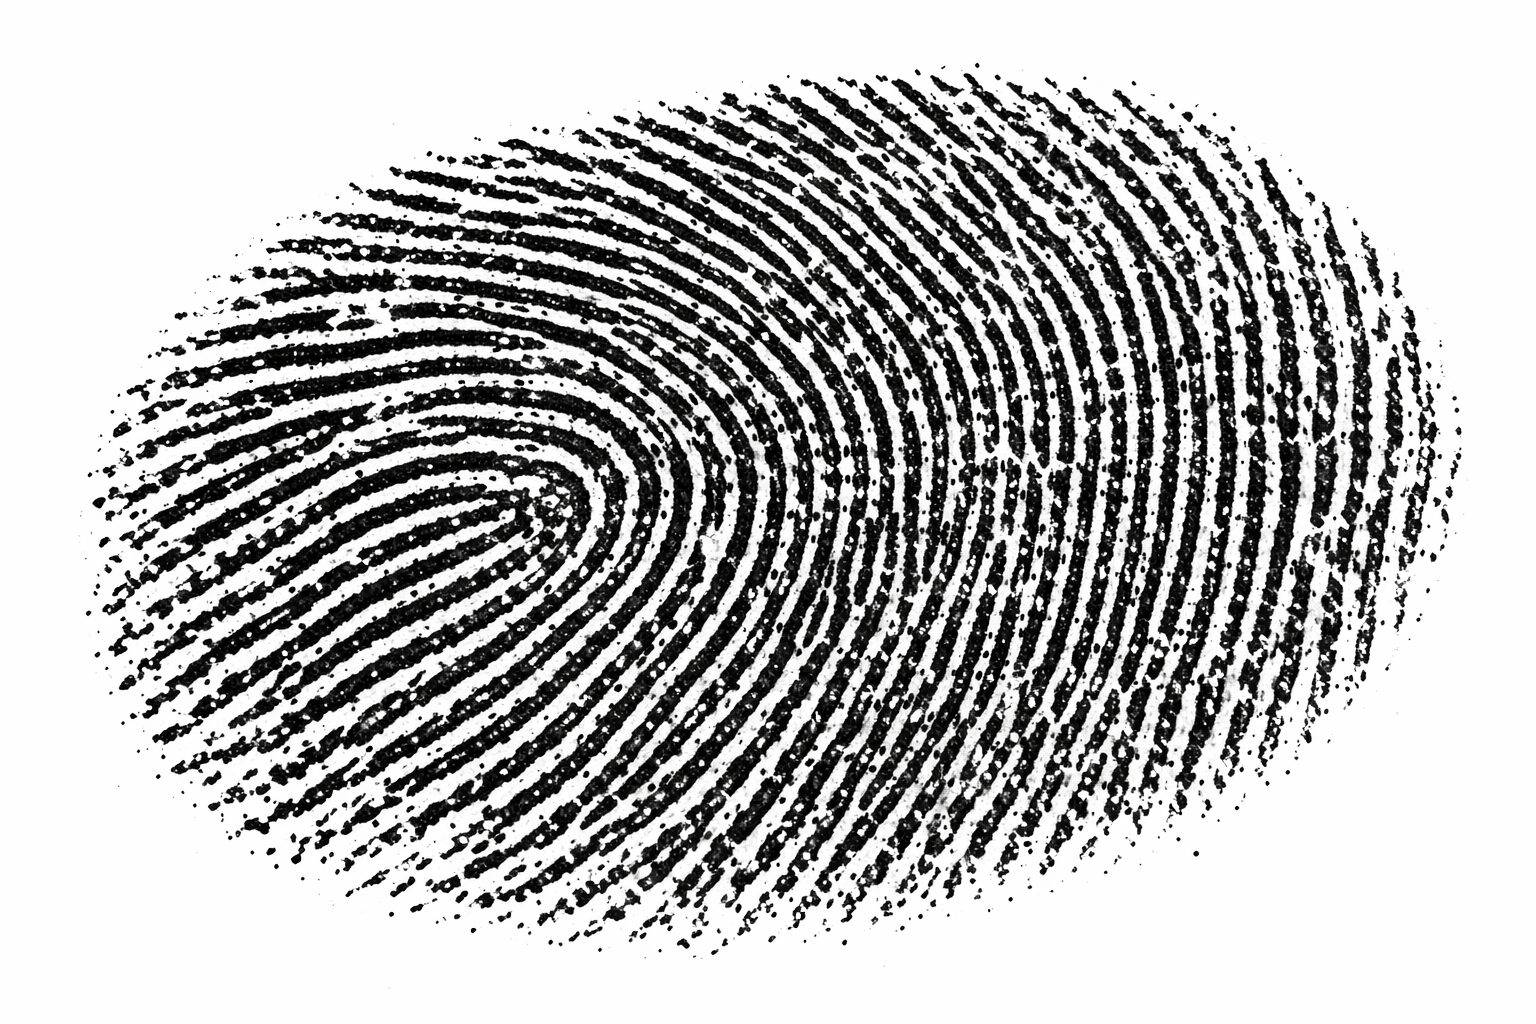
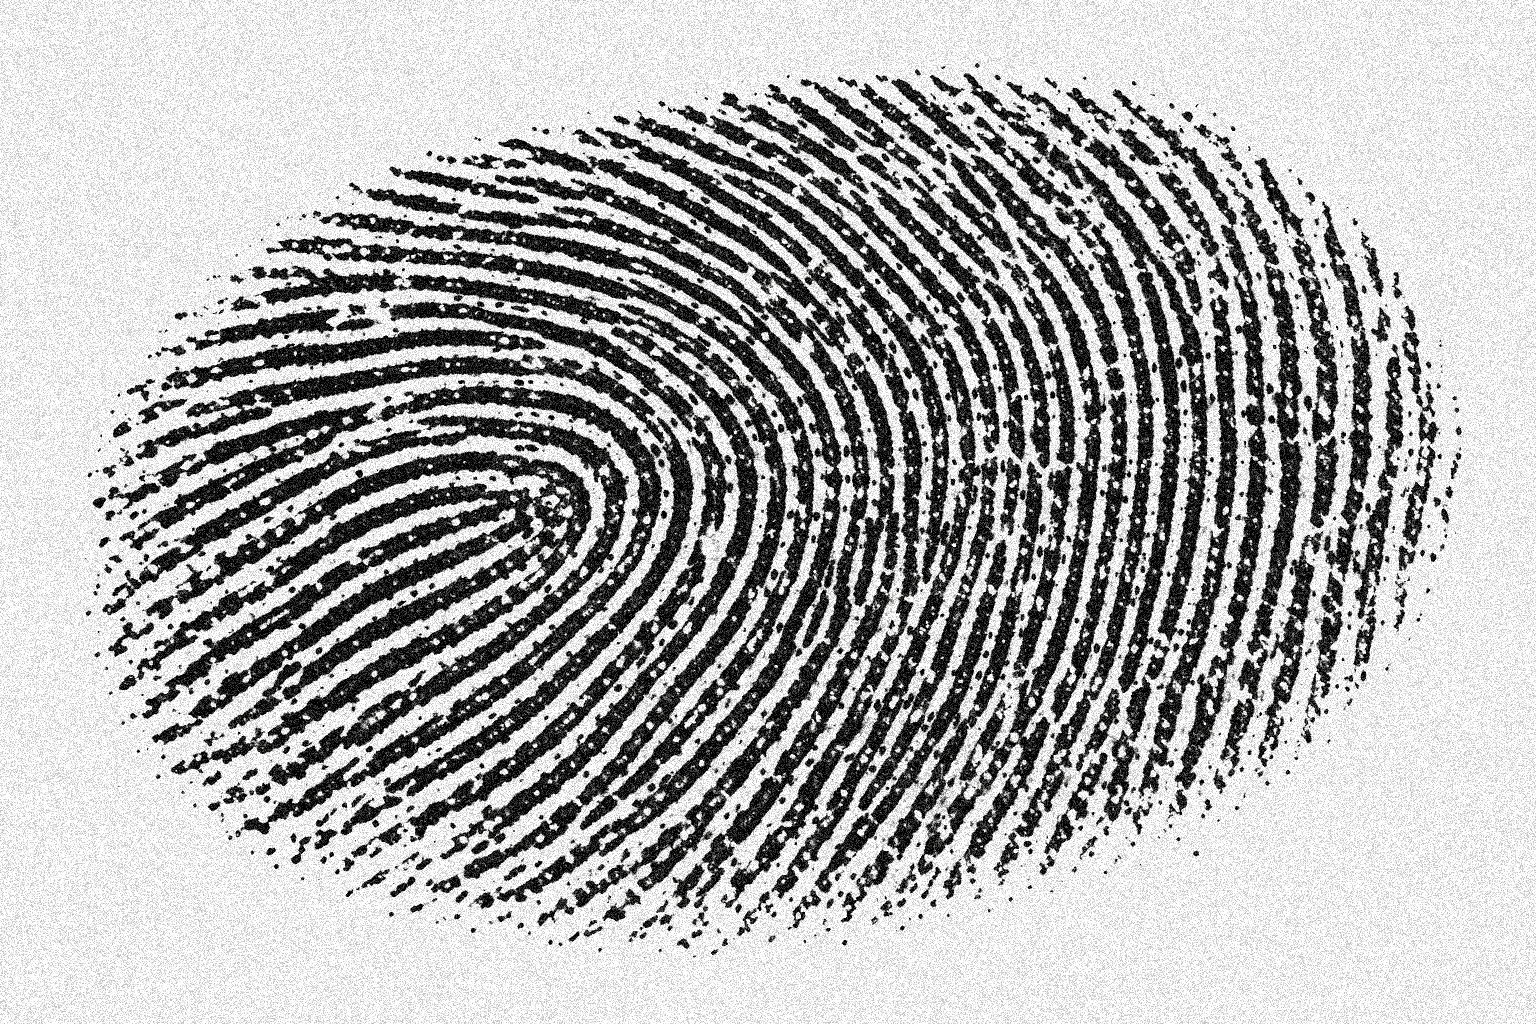
feat: task 2 completed

diff --git a/labs/lab2/task2.py b/labs/lab2/task2.py
@@ -1,0 +1,150 @@
+import os
+import cv2
+import numpy as np
+import matplotlib.pyplot as plt
+
+
+def loadGrayscaleImage(image_path: str) -> np.ndarray:
+    """Carga una imagen en escala de grises (uint8)"""
+    img = cv2.imread(image_path, cv2.IMREAD_GRAYSCALE)
+    if img is None:
+        raise ValueError(f"No se pudo leer la imagen: {image_path}")
+    return img
+
+
+def ensureBinaryImage(gray_img: np.ndarray) -> np.ndarray:
+    """Convierte una imagen en escala de grises a binaria limpia con valores {0, 255} usando Otsu"""
+    if gray_img.dtype != np.uint8:
+        gray_img = gray_img.astype(np.uint8)
+
+    _, binary = cv2.threshold(
+        gray_img, 0, 255, cv2.THRESH_BINARY + cv2.THRESH_OTSU
+    )
+
+    # Forzar binario estricto por seguridad
+    binary = np.where(binary > 0, 255, 0).astype(np.uint8)
+    return binary
+
+
+def normalizeForegroundToWhite(binary_img: np.ndarray) -> np.ndarray:
+    """Asegura que las crestas de la huella sean el foreground"""
+    white_ratio = float(np.mean(binary_img == 255))
+    if white_ratio > 0.5:
+        return cv2.bitwise_not(binary_img)
+    return binary_img
+
+
+def applyOpening(
+    binary_img: np.ndarray,
+    kernel_shape: int,
+    kernel_size: int,
+    iterations: int = 1
+) -> np.ndarray:
+    """Aplica apertura morfológica erosión -> dilatación"""
+    kernel = cv2.getStructuringElement(
+        kernel_shape, (kernel_size, kernel_size)
+    )
+    opened = cv2.morphologyEx(
+        binary_img, cv2.MORPH_OPEN, kernel, iterations=iterations
+    )
+    return opened
+
+
+def applyClosing(
+    binary_img: np.ndarray,
+    kernel_shape: int,
+    kernel_size: int,
+    iterations: int = 1
+) -> np.ndarray:
+    """Aplica cierre morfológico dilatación -> erosión"""
+    kernel = cv2.getStructuringElement(
+        kernel_shape, (kernel_size, kernel_size)
+    )
+    closed = cv2.morphologyEx(
+        binary_img, cv2.MORPH_CLOSE, kernel, iterations=iterations
+    )
+    return closed
+
+
+def showImages(
+    images: list[np.ndarray],
+    titles: list[str],
+    figsize=(14, 6)
+) -> None:
+    plt.figure(figsize=figsize)
+    for i, (img, title) in enumerate(zip(images, titles), start=1):
+        plt.subplot(1, len(images), i)
+        plt.imshow(img, cmap="gray", vmin=0, vmax=255)
+        plt.title(title)
+        plt.axis("off")
+    plt.tight_layout()
+    plt.show()
+
+
+def main() -> None:
+    # 1. Ruta de la imagen de entrada
+    image_path = "images/fingerprint_noisy.png"
+
+    # 2. Carga y binarización
+    gray_img = loadGrayscaleImage(image_path)
+    binary_img = ensureBinaryImage(gray_img)
+    binary_img = normalizeForegroundToWhite(binary_img)
+    # print("Valores únicos en la imagen binaria:", np.unique(binary_img))
+
+    # 3. Eliminación de ruido sal usando apertura
+    open_kernel_shape = cv2.MORPH_ELLIPSE
+    open_kernel_size = 3
+    opened_img = applyOpening(
+        binary_img,
+        open_kernel_shape,
+        open_kernel_size,
+        iterations=1
+    )
+
+    # 4. Conexión de grietas usando cierre
+    close_kernel_shape = cv2.MORPH_ELLIPSE
+    close_kernel_size = 5
+    final_img = applyClosing(
+        opened_img,
+        close_kernel_shape,
+        close_kernel_size,
+        iterations=1
+    )
+
+    # 5. Visualización
+    showImages(
+        [binary_img, opened_img, final_img],
+        [
+            "Imagen original binaria",
+            "Paso 2. Apertura (eliminación de ruido sal)",
+            "Imagen final. Cierre (conexión de grietas)"
+        ],
+        figsize=(16, 6)
+    )
+
+    # 6. Demostración
+    closed_first = applyClosing(
+        binary_img,
+        close_kernel_shape,
+        close_kernel_size,
+        iterations=1
+    )
+    reverse_final = applyOpening(
+        closed_first,
+        open_kernel_shape,
+        open_kernel_size,
+        iterations=1
+    )
+
+    showImages(
+        [final_img, reverse_final],
+        [
+            "Apertura → Cierre",
+            "Cierre → Apertura"
+        ],
+        figsize=(12, 5)
+    )
+
+
+if __name__ == "__main__":
+    main()

diff --git a/labs/lab2/docs/task2.md b/labs/lab2/docs/task2.md
@@ -1,81 +1,87 @@
 # Laboratorio 1
 
-## Task 2 – Práctica
+## Task 2
 
 Está desarrollando un sistema biométrico de seguridad. El sensor de huellas dactilares está sucio y produce imágenes binarias con dos tipos de defectos:
 
-1. Pequeños puntos blancos en los valles negros de la huella (Ruido Sal)
-2. Las “crestas” de la huella tienen pequeñas roturas que impiden que el algoritmo de matching funcione (grietas).
+1. Pequeños puntos blancos en los valles negros de la huella (ruido sal).
+2. Las crestas de la huella presentan pequeñas roturas que impiden el matching (grietas).
 
 ### Estrategia
 
-**Idea general:** usar una **secuencia de operaciones morfológicas** con elementos estructurantes (SE) pequeños para:
+Se utilizó una secuencia de operaciones morfológicas sobre una imagen binaria, con el objetivo de:
 
-1. **eliminar “sal”** (puntos blancos aislados) sin dañar crestas, y luego
-2. **cerrar grietas** (pequeñas rupturas) para recuperar continuidad.
+1. Eliminar el ruido blanco aislado sin afectar las crestas.
+2. Conectar las roturas presentes en las crestas de la huella.
 
-**1. Preparación (Inciso 1: binaria real)**
+La solución se basa en el uso controlado de **apertura** y **cierre**, aplicadas de forma secuencial.
 
-- Cargar `fingerprint_noisy.png` en escala de grises.
+### Inciso 1. Binarización
 
-- Binarizar y verificar que solo existan valores {0, 255}.
+La imagen `fingerprint_noisy.png` se cargó en escala de grises y se binarizó utilizando umbralización de Otsu, asegurando una imagen binaria limpia con valores `{0, 255}`.
 
-- Confirmar qué representa el **foreground** (1/255): idealmente que las **crestas** queden como blanco. Si quedaran al revés, se invierte (esto importa porque erosión/dilatación actúan sobre el foreground).
+Posteriormente, se verificó que las crestas de la huella correspondieran al foreground (blanco). En caso contrario, la imagen fue invertida para garantizar que las operaciones morfológicas actuaran correctamente sobre las crestas.
 
-**2.Eliminar ruido sal (Inciso 2)**
+### Inciso 2. Eliminación de ruido sal
 
-- Operación elegida: **Apertura (Erosión → Dilatación)**.
+- **Operación aplicada:** Apertura morfológica (erosión → dilatación).
+- **Elemento estructurante:** Elipse.
+- **Tamaño:** 3×3.
 
-  - Justificación: la apertura se usa para **remover “salt noise” (puntos blancos)** y es menos destructiva que aplicar erosión sola, porque recupera forma tras la dilatación. (Del artículo de Opening: “Removing Salt Noise… opening (erosion followed by dilation)” y definición de opening).
-- **SE recomendado:** pequeño y “isotrópico” (cuadrado o disco).
+**Justificación:**  
 
-  - Tamaño inicial típico: **3×3**; si el ruido es más grande, probar **5×5**.
-  - Criterio: el SE debe ser **ligeramente mayor** que los puntos de ruido para que desaparezcan en la erosión, pero **no tan grande** como para romper/adelgazar demasiado las crestas.
+El ruido presente corresponde a píxeles blancos pequeños y aislados.  
+La apertura elimina estos puntos durante la erosión, y la dilatación posterior restaura el grosor de las crestas sin reintroducir el ruido.  
+Esta operación permite limpiar la imagen sin destruir la estructura principal de la huella.
 
-**Entregable que se documenta aquí:** explicar por qué apertura y por qué ese SE (forma/tamaño) en términos de “mata puntos aislados y preserva estructuras grandes”.
+### Inciso 3. Conexión de grietas
 
-**3. Conectar grietas en crestas (Inciso 3)**
+- **Operación aplicada:** Cierre morfológico (dilatación → erosión).
+- **Elemento estructurante:** Elipse.
+- **Tamaño:** 5×5.
 
-- Operación elegida: **Cierre (Dilatación → Erosión)**.
+**Justificación:**
 
-  - Justificación: la dilatación **conecta regiones separadas** si la separación es menor que el SE; luego la erosión “reajusta” el grosor. (GeeksforGeeks: dilatación “fills holes and broken areas” y “connects areas separated by space smaller than structuring element”; además, el cierre usa dilatación primero).
-- **SE recomendado:**
+Las crestas presentan pequeñas discontinuidades.  
+La dilatación conecta segmentos cercanos cuya separación es menor que el elemento estructurante, y la erosión posterior corrige el engrosamiento producido, preservando la forma general de las crestas.
 
-  - Si las grietas son pequeñas y en varias direcciones: **disco/cuadrado 3×3 o 5×5**.
-  - Si las grietas parecen orientadas (p.ej., cortes más horizontales): **SE lineal** (una línea corta) alineada con la dirección donde quieres “puentear” la rotura.
-- Criterio: elegir el tamaño mínimo que **cierra las grietas** sin pegar crestas que no deberían unirse.
+### Inciso 4. Resultados
 
-**4. Visualización (Inciso 4)**
-Mostrar en el notebook, en el mismo tamaño y con títulos:
+Se muestran tres imágenes:
 
-1. Imagen original binaria
-2. Resultado tras **Apertura** (paso 2)
-3. Resultado final tras **Cierre** (paso 3)
+1. Imagen original binaria.
+2. Imagen tras aplicar apertura (eliminación de ruido sal).
+3. Imagen final tras aplicar cierre (crestas continuas).
 
-**5. ¿El orden altera el producto?**
+La imagen final presenta **menor ruido y mayor continuidad**, cumpliendo con los requisitos del preprocesamiento para sistemas biométricos.
 
-**Demostración:**
+### ¿El orden de los factores altera el producto?
 
----
+Sí. Las operaciones morfológicas no son conmutativas, por lo que el orden altera el resultado en términos teóricos.
 
-Para esta parte se espera que su entregable muestre:
+#### Orden aplicado
 
-- Selección correcta de los Elementos Estructurantes (Forma y Tamaño) para cada paso.
-- Calidad visual de la imagen final (sin ruido y continua)
-- Responda: ¿El orden de los factores altera el producto? Explique qué hubiera pasado si hubiera aplicado las operaciones en orden inverso y demuéstrelo con un ejemplo visual en el notebook.
+- **Apertura → Cierre**
 
-### Inciso 1
+Este orden elimina primero el ruido blanco aislado y luego conecta las grietas reales de las crestas.
 
-Cargue la imagen fingerprint_noisy.png. Asegúrese de que sea binaria.
+#### Orden inverso evaluado
 
-### Inciso 2
+- **Cierre → Apertura**
 
-Aplique una operación morfológica para eliminar el ruido blanco sin destruir las crestas de la huella. (Seleccione entre Erosión, Dilatación, Apertura o Cierre).
+En este caso particular, ambos resultados son **visualmente similares**, sin embargo se observa que en el pipeline **Cierre → Apertura** los **detalles finos de las crestas se mantienen ligeramente más notorios** en comparación con **Apertura → Cierre**.
 
-### Inciso 3
+Esto ocurre porque el cierre inicial refuerza las crestas mediante dilatación antes de aplicar la apertura, mientras que en el orden original la apertura elimina primero información fina junto con el ruido.
 
-Aplique una segunda operación secuencial para conectar las grietas en las crestas de la huella.
+Aun así:
 
-### Inciso 4
+- El ruido sal es pequeño.
+- Las grietas son cortas.
 
-Muestre la imagen original, la imagen tras el paso 2, y la imagen final.
+Por lo tanto, ambos órdenes convergen a resultados cercanos, confirmando que la diferencia es **sutil pero observable**.
+
+La demostración visual confirma que se evaluaron ambos órdenes y refuerza que, aunque en este ejemplo los resultados sean parecidos, **apertura y cierre no son conmutativas**.
+
+![Apertura Cierre](../images/task2.result1.png)
+  
+![Cierre Apertura](../images/task2.result2.png)
